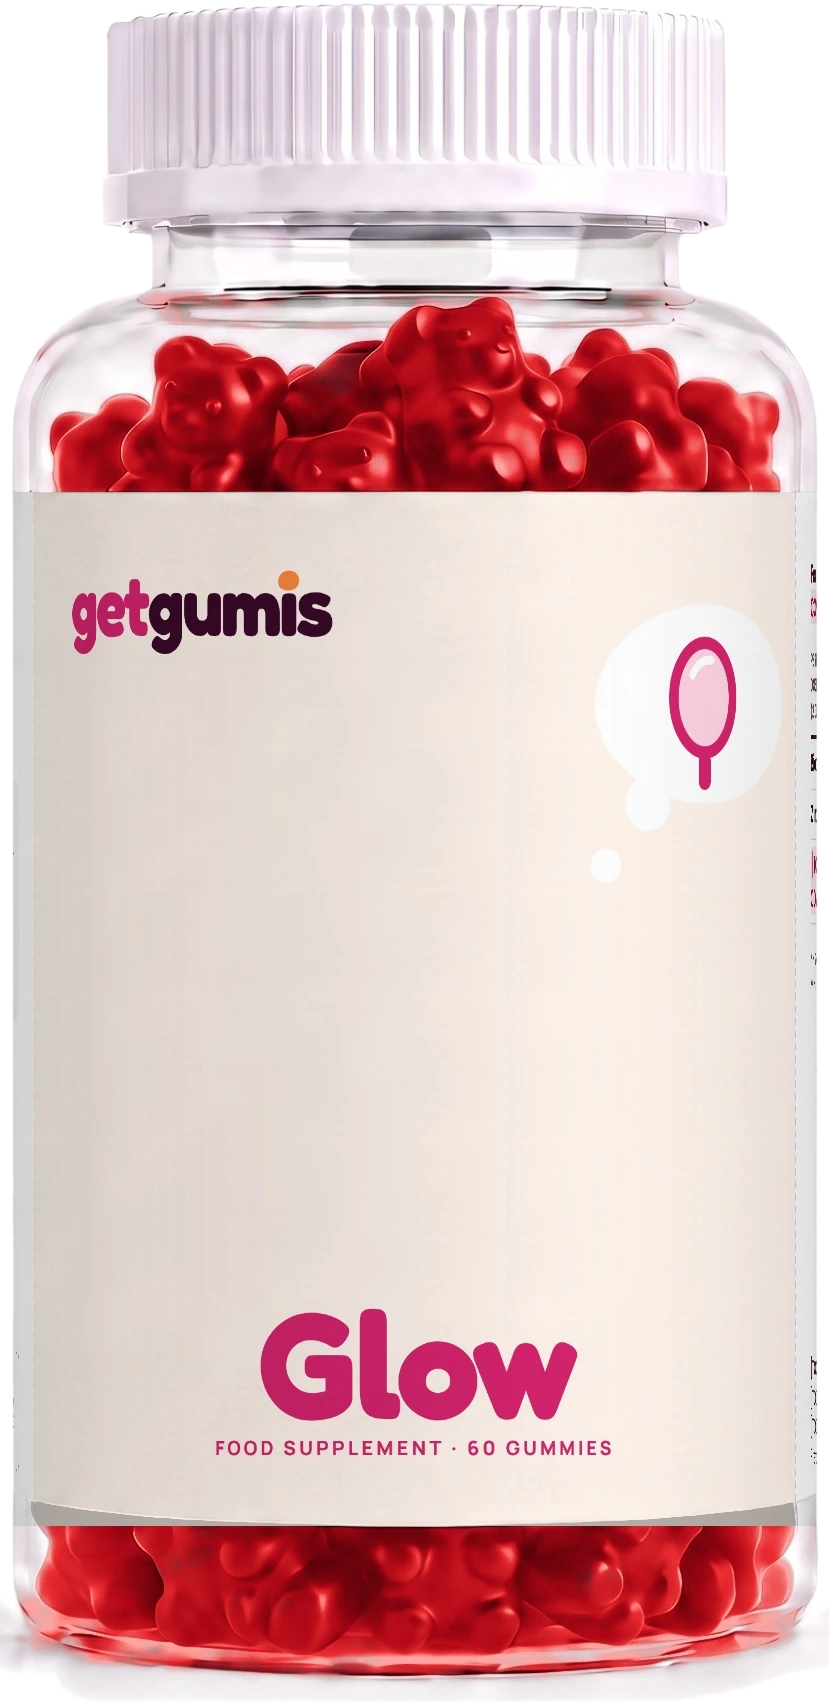
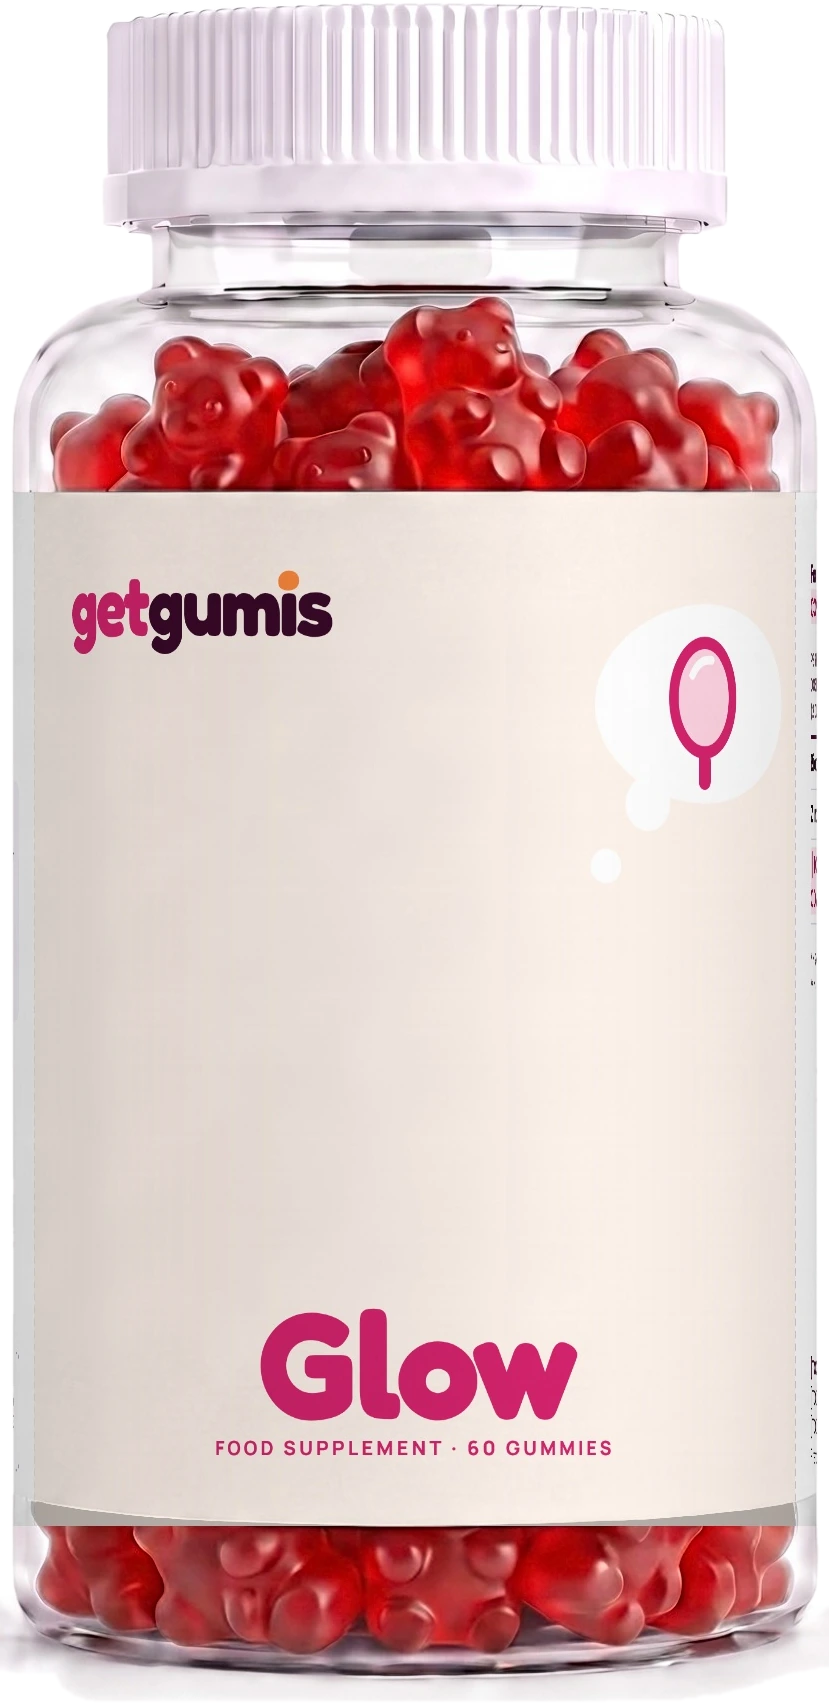
Realistic gummy colours: Glow red and Power blue taken from Suplify's own render
docs/labels/colour_transfer.py registers Suplify's red/blue bottle shot onto the HD photo and
transfers colour and translucency, keeping HD detail. Rebuilt bottle assets, final photos,
transparent PNGs and range photo.

Claude-Session: https://claude.ai/code/session_01Lb2waSc8LLPK7JxRvkowDM

Changed region(s): [[0.0603, 0.1555, 0.965, 0.311], [0.0302, 0.8709, 0.965, 0.9953]]

diff --git a/docs/labels/colour_transfer.py b/docs/labels/colour_transfer.py
@@ -1,0 +1,54 @@
+"""Colours the gummies in the HD bottle photo from Suplify's own (lower-resolution) render of the
+same bottle with red or blue gummies: colour and translucency from Suplify, fine detail from the HD photo.
+Usage: python3 colour_transfer.py bottle.jpg suplify.webp out.jpg
+"""
+import sys
+import cv2
+import numpy as np
+
+hi_path, lo_path, out_path = sys.argv[1:4]
+hi = cv2.imread(hi_path)
+lo = cv2.imread(lo_path)
+g_hi = cv2.cvtColor(hi, cv2.COLOR_BGR2GRAY)
+g_lo = cv2.cvtColor(lo, cv2.COLOR_BGR2GRAY)
+
+# 1. register the Suplify shot onto the HD photo (scale + offset by template matching)
+tpl = g_lo[60:780, 230:610]
+best = None
+for s in np.arange(2.50, 2.60, 0.002):
+    t = cv2.resize(tpl, None, fx=s, fy=s, interpolation=cv2.INTER_CUBIC)
+    r = cv2.matchTemplate(g_hi, t, cv2.TM_CCOEFF_NORMED)
+    _, mv, _, ml = cv2.minMaxLoc(r)
+    if best is None or mv > best[0]:
+        best = (mv, s, ml)
+score, s, (ox, oy) = best
+M = np.float32([[s, 0, ox - 230 * s], [0, s, oy - 60 * s]])
+up = cv2.warpAffine(lo, M, (hi.shape[1], hi.shape[0]), flags=cv2.INTER_LANCZOS4, borderMode=cv2.BORDER_REPLICATE)
+print('match', round(score, 4), 'scale', round(s, 3))
+
+# 2. combine in Lab: chroma from Suplify, lightness from Suplify + HD high-frequency detail
+lab_hi = cv2.cvtColor(hi, cv2.COLOR_BGR2LAB).astype(np.float32)
+lab_up = cv2.cvtColor(up, cv2.COLOR_BGR2LAB).astype(np.float32)
+L_hi = lab_hi[..., 0]
+detail = L_hi - cv2.GaussianBlur(L_hi, (0, 0), 3.0)
+L = lab_up[..., 0] + detail * 0.9
+ab = cv2.GaussianBlur(lab_up[..., 1:], (0, 0), 1.2)
+lab = np.dstack([np.clip(L, 0, 255), ab])
+rec = cv2.cvtColor(lab.astype(np.uint8), cv2.COLOR_LAB2BGR).astype(np.float32)
+
+# 3. only inside the gummy areas (above and below the label), soft mask from Suplify's colourfulness
+H, W = g_hi.shape
+yy, xx = np.mgrid[0:H, 0:W]
+region = (((yy > 430) & (yy < 648)) | ((yy > 1670) & (yy < 1865))) & (xx > 580) & (xx < 1420)
+chroma = np.hypot(lab_up[..., 1] - 128, lab_up[..., 2] - 128)
+w_sup = np.clip((chroma - 8) / 14, 0, 1)
+# also every pixel that is a (purple) gummy in the HD photo, so no purple shows through in the shadows
+B, G, R = [hi[..., i].astype(np.float32) for i in range(3)]
+L0 = 0.3 * R + 0.59 * G + 0.11 * B
+w_orig = np.maximum(np.clip(((R + B) / 2 - G - 4) / 9, 0, 1), np.clip((48 - L0) / 18, 0, 1) * ((xx > 625) & (xx < 1375)))
+w_orig *= np.clip((215 - L0) / 30, 0, 1)
+w = np.maximum(w_sup, w_orig) * region
+w = cv2.GaussianBlur(w.astype(np.float32), (0, 0), 1.5)[..., None]
+out = hi.astype(np.float32) * (1 - w) + rec * w
+cv2.imwrite(out_path, np.clip(out, 0, 255).astype(np.uint8), [cv2.IMWRITE_JPEG_QUALITY, 95])
+print('ok', out_path)
